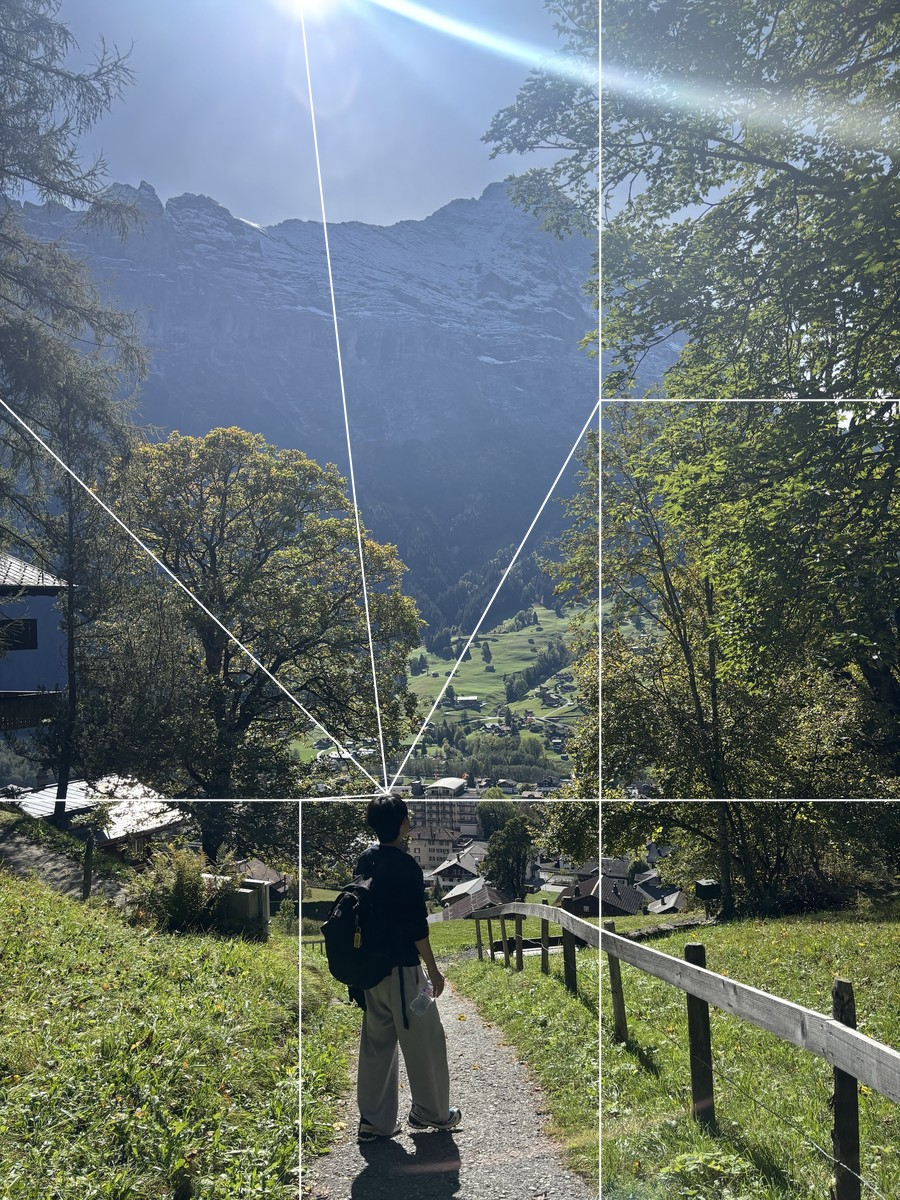
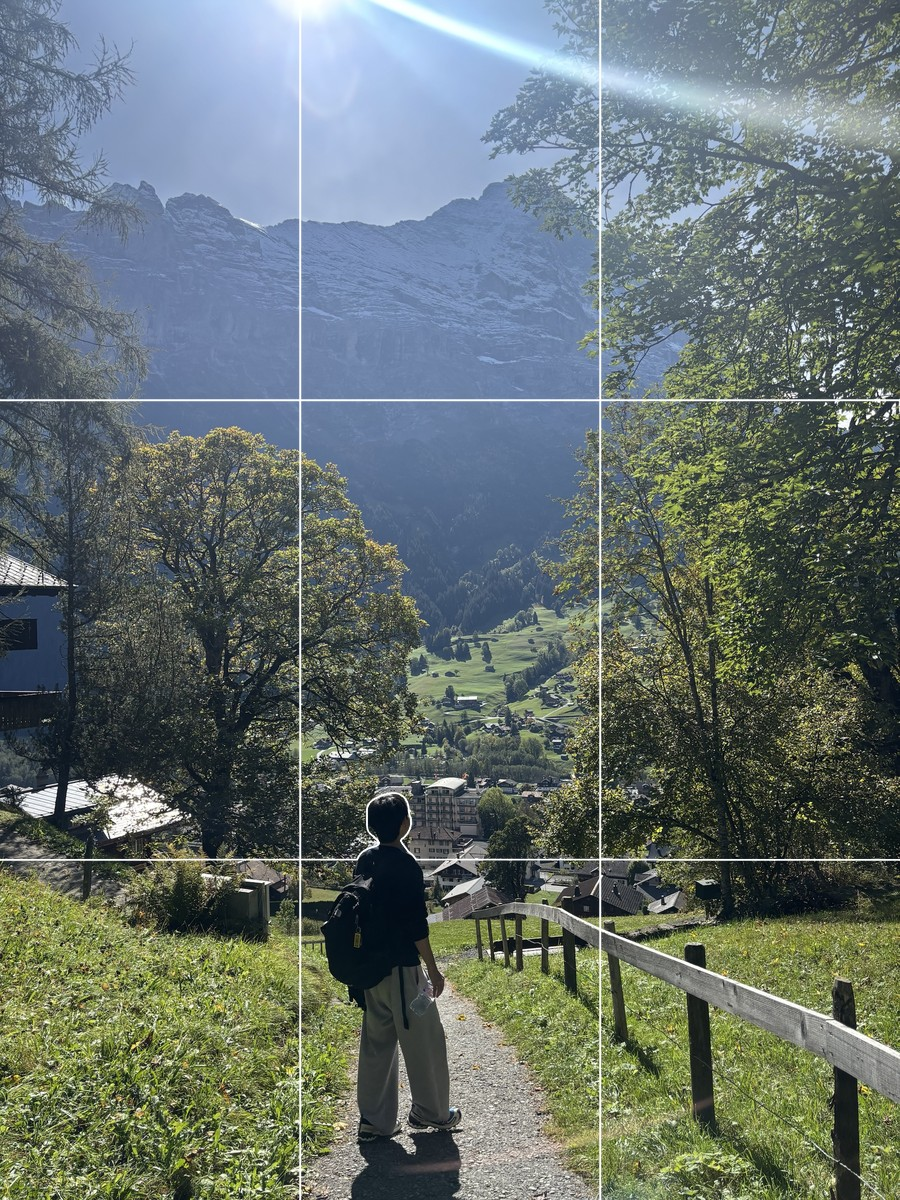
Walk photo: the horizontal grid line wraps around the head and shoulders instead of crossing the person
Claude-Session: https://claude.ai/code/session_017tRhLrU6EtwKG7gsnpDtko

diff --git a/index.html b/index.html
@@ -95,7 +95,7 @@
 
     <div class="strip" role="group" aria-label="Photographs">
       <figure style="--ar:1.3333"><div class="plate"><img src="media3/photo_valley.jpg" alt="Village in an alpine valley below a snow-dusted mountain; grid lines converge on a tiny walker on the path" width="1600" height="1200" loading="eager"><svg class="gridfx" viewBox="0 0 1 1" preserveAspectRatio="none" aria-hidden="true"><defs><mask id="m-valley" maskUnits="userSpaceOnUse" x="0" y="0" width="1" height="1"><rect width="1" height="1" fill="#fff"/><polygon points="0.3588,0.8292 0.3606,0.8292 0.3613,0.8325 0.3631,0.8367 0.3631,0.8442 0.3625,0.85 0.3619,0.8567 0.3575,0.8575 0.3569,0.85 0.3556,0.8442 0.3563,0.8375 0.3575,0.8342" fill="#000"/></mask></defs><g mask="url(#m-valley)"><polyline points="0.3333,0 0.3333,0.3333 0.3594,0.8283 0.3333,1"/><polyline points="0.6667,0 0.6667,0.3333 0.6667,0.6667 0.6667,1"/><polyline points="0,0.3333 0.3333,0.3333 0.6667,0.3333 1,0.3333"/><polyline points="0,0.6667 0.3594,0.8283 0.6667,0.6667 1,0.6667"/></g></svg></div></figure>
-      <figure style="--ar:0.75"><div class="plate"><img src="media3/photo_walk.jpg" alt="Seihwan with a backpack on a path, looking toward a mountain valley; grid lines meet at his head" width="900" height="1200" loading="lazy"><svg class="gridfx" viewBox="0 0 1 1" preserveAspectRatio="none" aria-hidden="true"><defs><mask id="m-walk" maskUnits="userSpaceOnUse" x="0" y="0" width="1" height="1"><rect width="1" height="1" fill="#fff"/><polygon points="0.4133,0.6658 0.4289,0.6617 0.4411,0.6633 0.45,0.6692 0.4544,0.6783 0.4556,0.6883 0.4522,0.6967 0.4467,0.7017 0.4556,0.7083 0.4644,0.7183 0.47,0.7283 0.4733,0.7433 0.4744,0.7625 0.4733,0.7833 0.4778,0.7933 0.4856,0.8042 0.4922,0.8183 0.4933,0.8308 0.4889,0.8367 0.4911,0.8458 0.4944,0.8625 0.4978,0.885 0.5,0.9083 0.5022,0.9233 0.5111,0.9267 0.5133,0.9325 0.5056,0.9375 0.4778,0.9392 0.4533,0.9375 0.4467,0.9408 0.4422,0.9475 0.4222,0.9508 0.4022,0.95 0.3967,0.9425 0.3978,0.9167 0.3978,0.8833 0.4,0.85 0.4022,0.8392 0.3911,0.8342 0.3856,0.8208 0.3722,0.8108 0.3633,0.8 0.3578,0.7817 0.3589,0.7708 0.3667,0.7583 0.3778,0.7458 0.3856,0.7367 0.3922,0.725 0.3978,0.7125 0.4044,0.705 0.4133,0.7025 0.4078,0.6983 0.4067,0.6883 0.4078,0.6792 0.41,0.6708" fill="#000"/></mask></defs><g mask="url(#m-walk)"><polyline points="0.3333,0 0.43,0.662 0.3333,0.6667 0.3333,1"/><polyline points="0.6667,0 0.6667,0.3333 0.6667,0.6667 0.6667,1"/><polyline points="0,0.3333 0.43,0.662 0.6667,0.3333 1,0.3333"/><polyline points="0,0.6667 0.3333,0.6667 0.6667,0.6667 1,0.6667"/></g></svg></div></figure>
+      <figure style="--ar:0.75"><div class="plate"><img src="media3/photo_walk.jpg" alt="Seihwan with a backpack on a path, looking toward a mountain valley; grid lines meet at his head" width="900" height="1200" loading="lazy"><svg class="gridfx" viewBox="0 0 1 1" preserveAspectRatio="none" aria-hidden="true"><defs><mask id="m-walk" maskUnits="userSpaceOnUse" x="0" y="0" width="1" height="1"><rect width="1" height="1" fill="#fff"/><polygon points="0.398,0.7166 0.4001,0.7135 0.4037,0.7104 0.4089,0.7081 0.4151,0.7065 0.4203,0.7054 0.4224,0.7026 0.4203,0.6995 0.4151,0.696 0.4105,0.6929 0.4089,0.6891 0.4089,0.6793 0.4089,0.6735 0.4115,0.6696 0.4156,0.6669 0.4218,0.6646 0.4286,0.6627 0.4358,0.6615 0.4425,0.6623 0.4482,0.665 0.4513,0.6685 0.4529,0.6735 0.4534,0.6786 0.4555,0.6825 0.4555,0.6871 0.4539,0.691 0.4513,0.6945 0.4482,0.6972 0.4451,0.6988 0.4441,0.7007 0.4457,0.703 0.4488,0.7061 0.4529,0.7104 0.4576,0.7131 0.4612,0.7166 0.4612,0.7499 0.398,0.7499" fill="#000"/></mask></defs><g mask="url(#m-walk)"><polyline points="0.3333,0 0.3333,0.3333 0.3333,0.6667 0.3333,1"/><polyline points="0.6667,0 0.6667,0.3333 0.6667,0.6667 0.6667,1"/><polyline points="0,0.3333 0.3333,0.3333 0.6667,0.3333 1,0.3333"/><polyline points="0,0.7166 0.397,0.7162 0.3972,0.716 0.3975,0.7156 0.3979,0.715 0.3984,0.7142 0.399,0.7134 0.3998,0.7126 0.4006,0.7118 0.4016,0.711 0.4026,0.7102 0.4038,0.7095 0.4051,0.7089 0.4064,0.7082 0.4078,0.7077 0.4093,0.7072 0.4108,0.7067 0.4124,0.7063 0.4139,0.706 0.4153,0.7056 0.4166,0.7053 0.4178,0.7051 0.4188,0.7048 0.4196,0.7044 0.4203,0.7039 0.4207,0.7034 0.4208,0.7029 0.4208,0.7023 0.4206,0.7017 0.4201,0.701 0.4195,0.7003 0.4186,0.6996 0.4175,0.6988 0.4163,0.6979 0.415,0.6971 0.4138,0.6963 0.4126,0.6954 0.4114,0.6946 0.4103,0.6937 0.4095,0.6928 0.4089,0.6918 0.4085,0.6907 0.4081,0.6893 0.4079,0.6876 0.4078,0.6855 0.4078,0.683 0.4078,0.6808 0.4078,0.6788 0.4078,0.6771 0.4078,0.6756 0.408,0.6742 0.4083,0.6729 0.4089,0.6718 0.4096,0.6707 0.4104,0.6698 0.4113,0.6689 0.4123,0.6681 0.4134,0.6673 0.4146,0.6666 0.4159,0.666 0.4174,0.6653 0.419,0.6647 0.4206,0.6642 0.4223,0.6636 0.424,0.6631 0.4257,0.6626 0.4274,0.6622 0.4292,0.6618 0.4311,0.6614 0.433,0.6611 0.4348,0.6609 0.4366,0.6609 0.4385,0.661 0.4402,0.6612 0.442,0.6615 0.4436,0.662 0.4452,0.6626 0.4467,0.6633 0.4481,0.6641 0.4492,0.6649 0.4503,0.6658 0.4511,0.6667 0.4518,0.6678 0.4525,0.6689 0.453,0.6701 0.4534,0.6714 0.4537,0.6727 0.454,0.674 0.4542,0.6753 0.4543,0.6765 0.4545,0.6777 0.4548,0.6788 0.4553,0.6799 0.4558,0.6808 0.4562,0.6819 0.4564,0.683 0.4566,0.6841 0.4566,0.6854 0.4565,0.6866 0.4563,0.6877 0.456,0.6888 0.4556,0.6898 0.4551,0.6908 0.4545,0.6917 0.4539,0.6927 0.4533,0.6936 0.4526,0.6945 0.4518,0.6953 0.451,0.696 0.4502,0.6967 0.4494,0.6974 0.4486,0.6979 0.4478,0.6984 0.4471,0.6987 0.4465,0.6991 0.446,0.6995 0.4457,0.6998 0.4455,0.7001 0.4454,0.7005 0.4455,0.7009 0.4457,0.7014 0.4461,0.7018 0.4465,0.7024 0.4471,0.703 0.4477,0.7037 0.4485,0.7045 0.4493,0.7053 0.4502,0.7062 0.4512,0.7072 0.4522,0.7083 0.4532,0.7092 0.4543,0.7101 0.4554,0.7108 0.4566,0.7115 0.4577,0.7123 0.4587,0.713 0.4597,0.7139 0.4607,0.7148 0.4614,0.7154 0.4618,0.7159 0.462,0.7161 1,0.7166"/></g></svg></div></figure>
       <figure style="--ar:0.75"><div class="plate"><img src="media3/photo_records.jpg" alt="Record shop shelves with Madonna and Oasis sleeves; grid lines converge on the Oasis cover" width="900" height="1200" loading="lazy"><svg class="gridfx" viewBox="0 0 1 1" preserveAspectRatio="none" aria-hidden="true"><polyline points="0.3333,0 0.3333,0.3333 0.3333,0.6667 0.3333,1"/><polyline points="0.6667,0 0.545,0.413 0.6667,0.6667 0.6667,1"/><polyline points="0,0.3333 0.3333,0.3333 0.545,0.413 1,0.3333"/><polyline points="0,0.6667 0.3333,0.6667 0.6667,0.6667 1,0.6667"/></svg></div></figure>
       <figure style="--ar:0.5625"><div class="plate"><img src="media3/photo_lake.jpg" alt="Wooden posts and a pier on a lake under clouds and mountains; a grid line runs along the post tops" width="675" height="1200" loading="lazy"><svg class="gridfx" viewBox="0 0 1 1" preserveAspectRatio="none" aria-hidden="true"><polyline points="0.3333,0 0.3333,0.3333 0.3333,0.6667 0.3333,1"/><polyline points="0.6667,0 0.6667,0.3333 0.6667,0.6667 0.6667,1"/><polyline points="0,0.3333 0.3333,0.3333 0.6667,0.3333 1,0.3333"/><polyline points="0,0.6667 0.372,0.567 1,0.568"/></svg></div></figure>
     </div>
